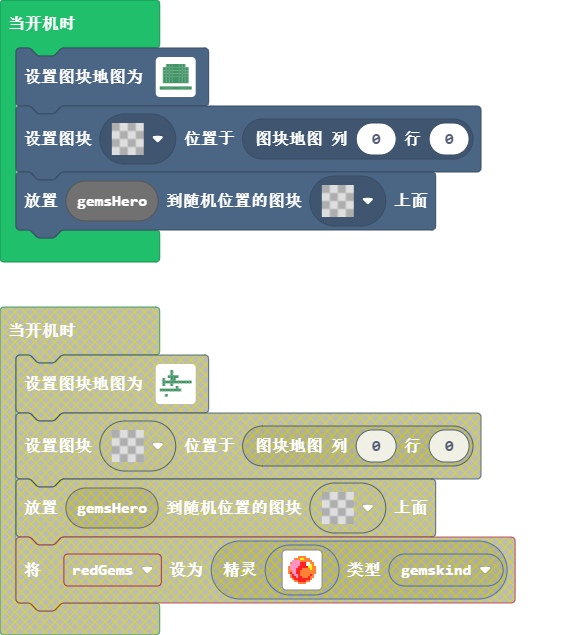
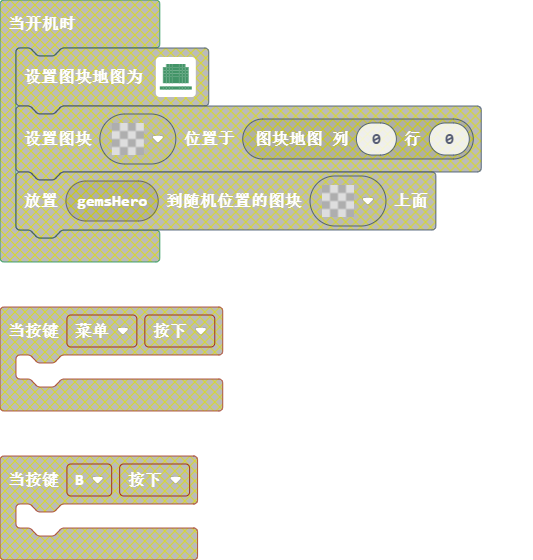
更新 main.blocks, main.ts, getgems.ts

diff --git a/getgems.ts b/getgems.ts
@@ -50,17 +50,27 @@ enum turnDireciton{
     }
 
 //场景初始化
-tiles.setTileAt(tiles.getTileLocation(0, 0), sprites.dungeon.collectibleInsignia)
-tiles.placeOnRandomTile(gemsHero, sprites.dungeon.collectibleInsignia)
-//Getgems积木块定义
-//% weight=100 color=#6699CC icon="\uf140" block="Getgems"
[1 lines of base64/hex data omitted]
+    . . . . . . . . . . 
+    . . . . . . . . . . 
+    . . . . . . . . . . 
+    . . . . . . . . . . 
+    . . . . . . . . . . 
+    . . . . . . . . . . 
+    . . . . . . . . . . 
+    . . . . . . . . . . 
+    `, [myTiles.transparency16,sprites.builtin.forestTiles0], TileScale.Sixteen))
+tiles.placeOnTile(gemsHero, tiles.getTileLocation(0, 0))
+
+//Getgems积木块定义  icon="\uf140"  \f3a5
+//% weight=100 color=#6699CC icon="\uf145" block="Getgems"
 //% groups='["move"]'
 namespace getgems {
     //转向
     //%block
     //%group="move"
-    //%blockId=turnRound block="turnRound %turnDirection"
-    export function turnRound (choice: turnDireciton) {
+    //%blockId=turn block="turn %turnDirection"
+    export function turn (choice: turnDireciton) {
     if (choice ) {
         heroDirection += 1
         heroDirection = heroDirection % 4

diff --git a/main.ts b/main.ts
@@ -5,29 +5,11 @@ controller.A.onEvent(ControllerButtonEvent.Pressed, function () {
     for (let index = 0; index < 6; index++) {
         getgems.stepForward()
     }
-    getgems.turnRound(turnDireciton.left)
+    getgems.turn(turnDireciton.left)
     for (let index = 0; index < 5; index++) {
         getgems.stepForward()
     }
-    getgems.turnRound(turnDireciton.left)
+    getgems.turn(turnDireciton.left)
     getgems.stepForward()
-    getgems.turnRound(turnDireciton.right)
+    getgems.turn(turnDireciton.right)
 })
-controller.B.onEvent(ControllerButtonEvent.Pressed, function () {
-	
-})
-controller.menu.onEvent(ControllerButtonEvent.Pressed, function () {
-	
-})
[1 lines of base64/hex data omitted]
-    . . . . . . . . . .
-    . . . . . . . . . .
-    . . . . . . . . . .
-    . . . . . . . . . .
-    . . . . . . . . . .
-    . . . . . . . . . .
-    . . . . . . . . . .
-    . . . . . . . . . .
-`, [myTiles.transparency16,sprites.builtin.forestTiles0], TileScale.Sixteen))
-tiles.setTileAt(tiles.getTileLocation(0, 0), sprites.dungeon.collectibleInsignia)
-tiles.placeOnRandomTile(gemsHero, sprites.dungeon.collectibleInsignia)
